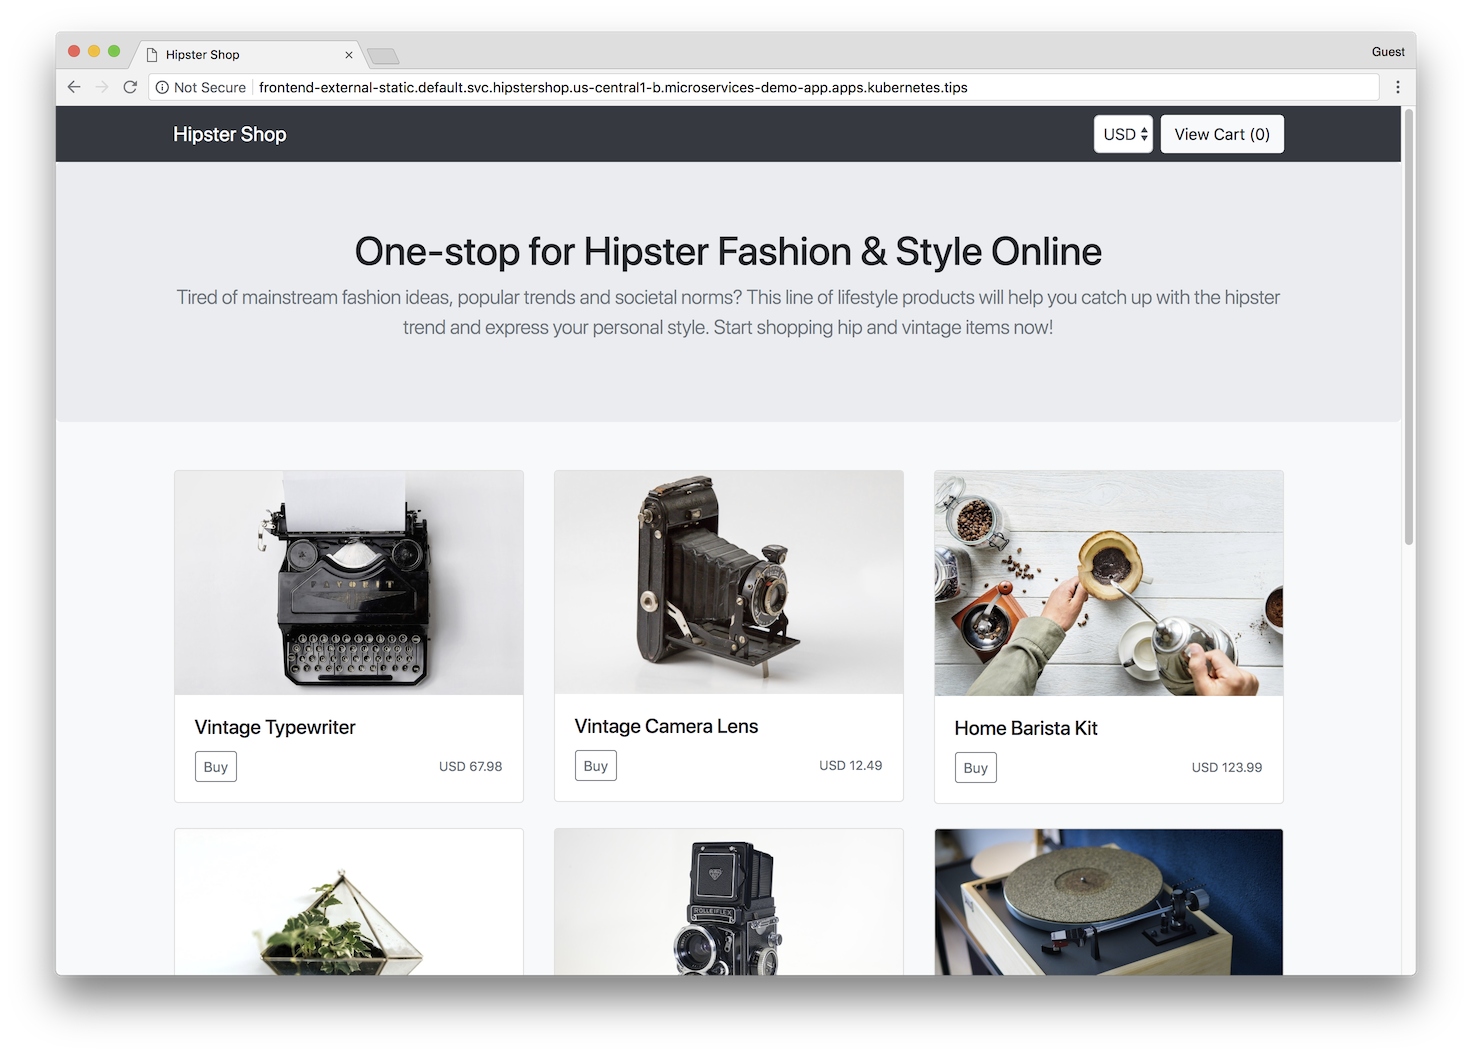
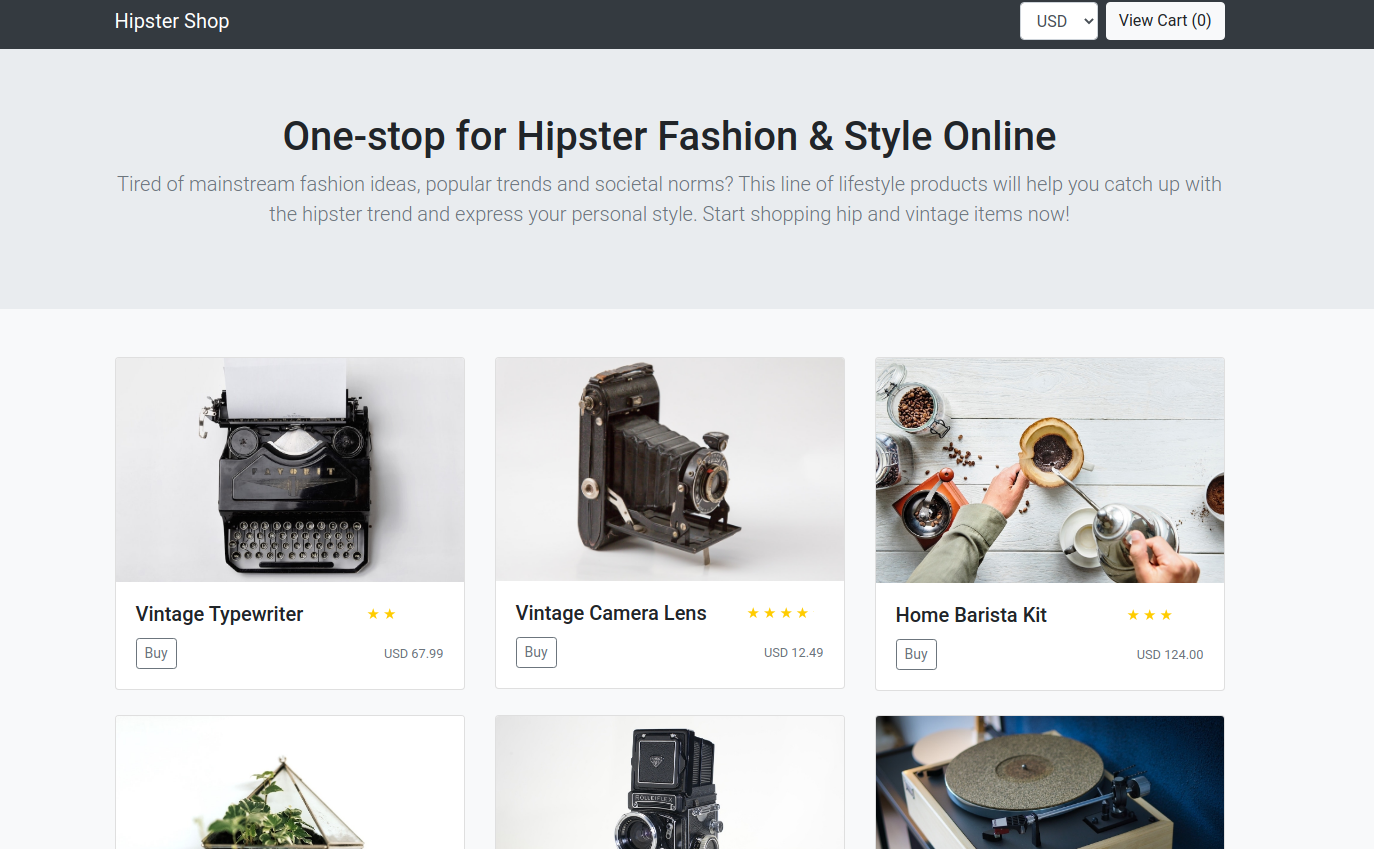
modify root README.md to include rating service
also update the screenshot of the home page and architecture diagram.

diff --git a/README.md b/README.md
@@ -1,4 +1,3 @@
-
 # Cloud Operations Sandbox (Alpha)
 
 ![Continuous Integration](https://github.com/GoogleCloudPlatform/cloud-ops-sandbox/workflows/Continuous%20Integration/badge.svg)
@@ -71,9 +70,8 @@ gcloud projects delete $YOUR_PROJECT_ID
 
 ## Service Overview
 
-This project contains a 10-tier microservices application. It is a
-web-based e-commerce app called **“Hipster Shop”**, where users can browse items,
-add them to the cart, and purchase them.
+This project contains a multi-tier microservices application.
+It is a web-based e-commerce app called **“Hipster Shop”**, where users can browse items, add them to the cart, and purchase them.
 
 ### Screenshots
 
@@ -83,15 +81,15 @@ add them to the cart, and purchase them.
 
 ### Service Architecture
 
-**Hipster Shop** is composed of many microservices, written in different languages, that talk to each other over gRPC.
+**Hipster Shop** is composed of many microservices, written in different languages, that talk to each other over gRPC and REST API.
 >**We are not endorsing the architecture of Hipster Shop as the best way to build such a shop!**
 > The architecture is optimized for learning purposes and includes modern stack: Kubernetes, GKE, Istio,
-> Ops Management, gRPC, OpenTelemetry, and similar cloud-native technologies.
+> Ops Management, App Engine, gRPC, OpenTelemetry, and similar cloud-native technologies.
 
 [![Architecture of
 microservices](./docs/img/architecture-diagram.png)](./docs/img/architecture-diagram.png)
 
-Find the **Protocol Buffers Descriptions** in the [`./pb` directory](./pb).
+Find the **gRPC protocol buffer descriptions** in the [`./pb` directory](./pb).
 
 | Service | Language | Description |
 |---------|----------|-------------|
@@ -106,7 +104,7 @@ Find the **Protocol Buffers Descriptions** in the [`./pb` directory](./pb).
 | [recommendationservice](./src/recommendationservice) | Python | Recommends other products based on what's in the user's cart. |
 | [adservice](./src/adservice) | Java | Provides text ads based on given context words. |
 | [loadgenerator](./src/loadgenerator) | Python/Locust | Continuously sends requests that imitate realistic shopping flows to the frontend. |
-| [ratingservice](./src/ratingservice) | Python3 | Allows to post and get ratings by id. Demonistrates integration of different GCP services. |
+| [ratingservice](./src/ratingservice) | Python3 | Manages ratings of the shop's products. Runs on App Engine. |
 
 ### Technologies
 
@@ -121,8 +119,11 @@ Find the **Protocol Buffers Descriptions** in the [`./pb` directory](./pb).
 * **[Skaffold](https://github.com/GoogleContainerTools/skaffold):** A tool used for doing repeatable deployments. You can deploy to Kubernetes with a single command using Skaffold.
 * **Synthetic Load Generation:** The application demo comes with dedicated load generation service that creates realistic usage patterns on Hipster Shop website using
   [Locust](https://locust.io/) load generator.
+* **[Google App Engine](https://cloud.google.com/appengine):** PaaS for running Web applications and services.
+* **[Google Cloud SQL](https://cloud.google.com/sql):** Fully managed relational database service for MySQL, PostgreSQL and SQL Server.
 
 ## For Developers
+
 If you are a developer and want to contribute to the Sandbox, you can refer to [CONTIBUTING.md](CONTRIBUTING.md).
 
 ---
